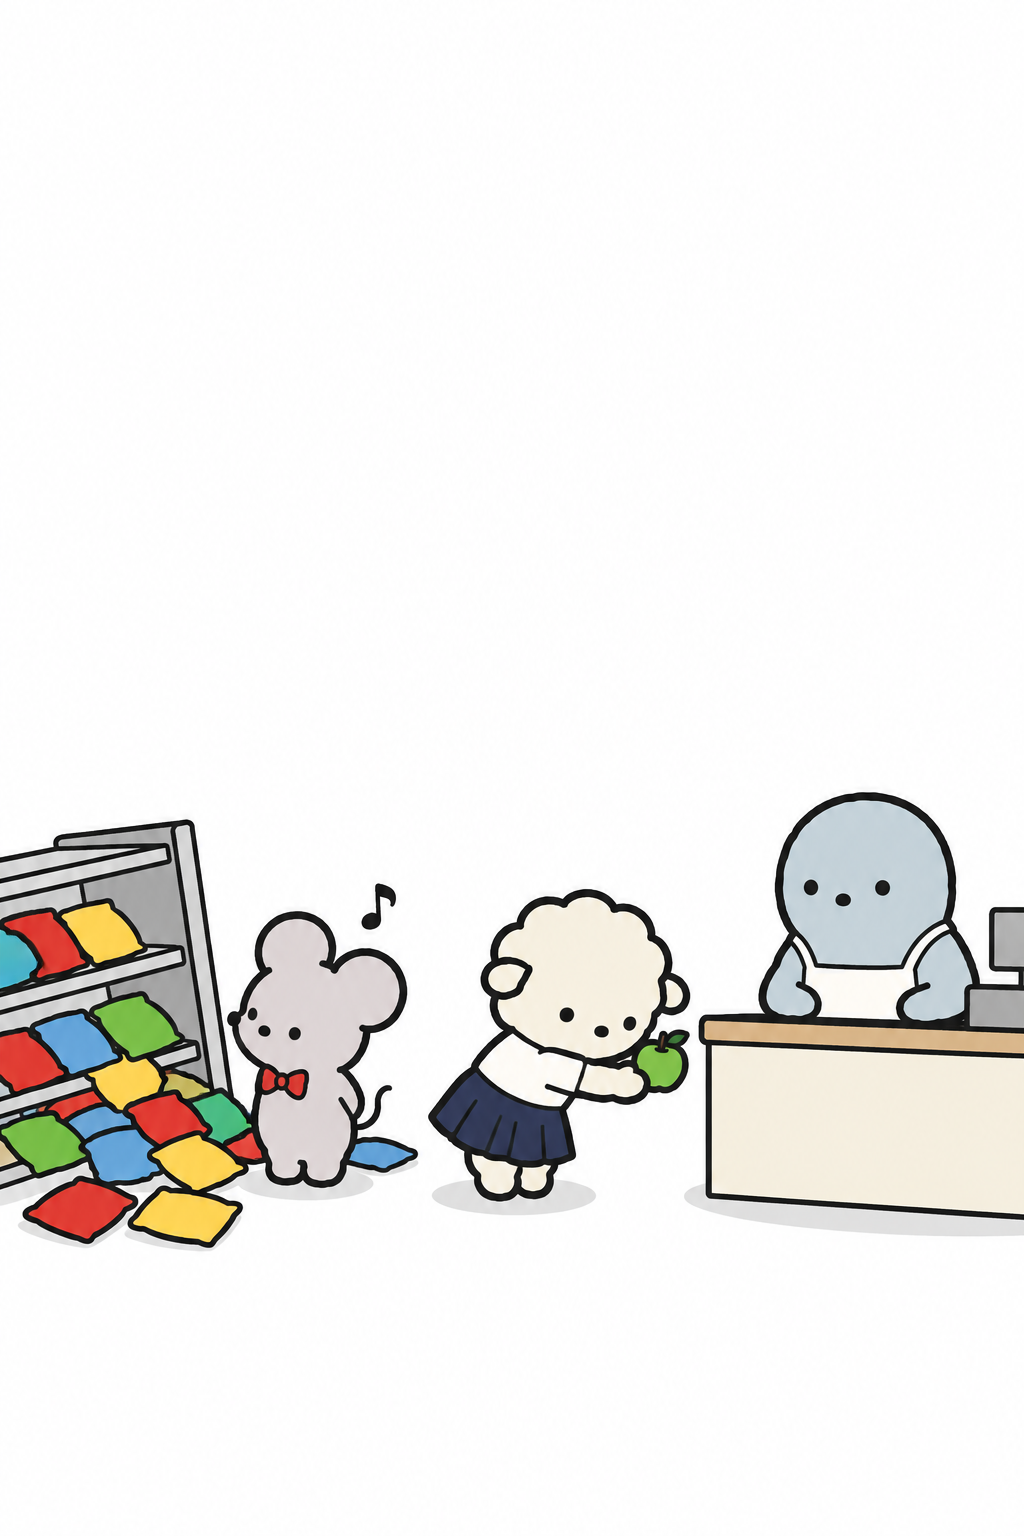
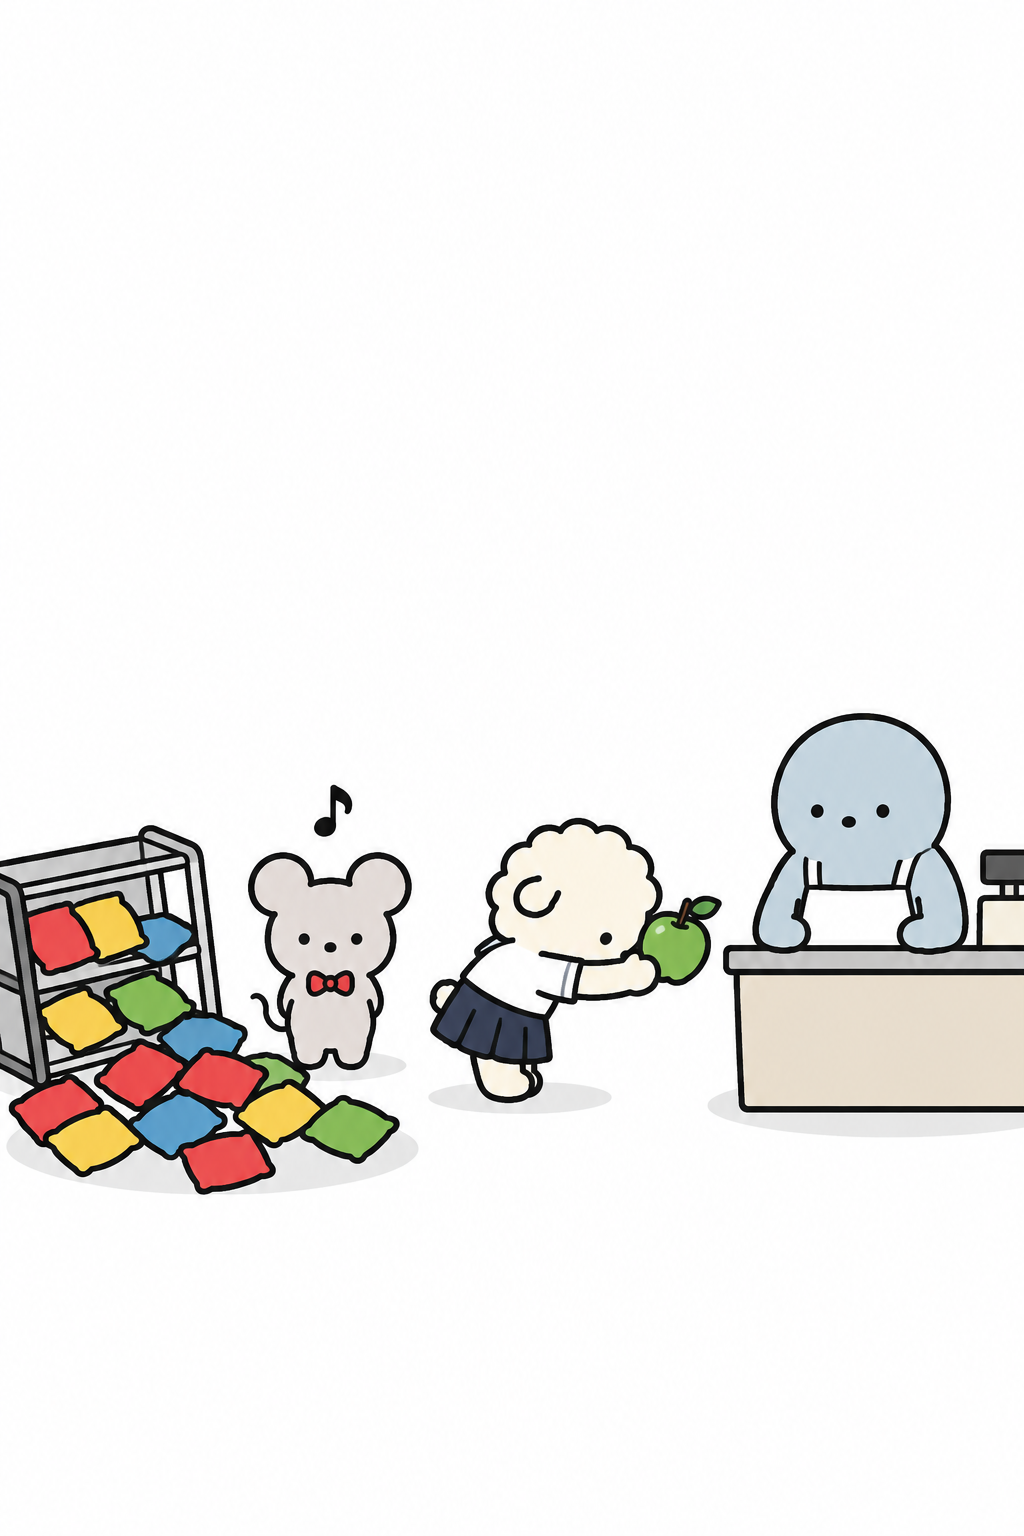
EP.05 컷3 재생성: 콩 코 1개, 정면

Changed region(s): [[0.0, 0.4375, 1.0, 0.8125]]

diff --git a/episodes/ep05/compose.html b/episodes/ep05/compose.html
@@ -53,8 +53,8 @@
   <div class="narr">어릴 때부터 동생이 사고를 치면
 동생 몫까지 대신 사과해 왔다.</div>
   <div class="label" style="top:290px">- 10년 전 -</div>
-  <div class="mind" style="left:230px;top:665px;width:240px;text-align:center">누나 최고</div>
-  <div class="mind" style="left:470px;top:600px;width:420px;text-align:center">저희가 다 치울게요!</div>
+  <div class="mind" style="left:230px;top:600px;width:240px;text-align:center">누나 최고</div>
+  <div class="mind" style="left:470px;top:540px;width:420px;text-align:center">저희가 다 치울게요!</div>
 </section>
 
 <section id="s4" class="dim">

diff --git a/episodes/ep05/build_prompts.py b/episodes/ep05/build_prompts.py
@@ -66,7 +66,7 @@ cuts['cut2'] = head(DUBU, TANGJA, APPLE) + (
 cuts['cut3'] = head(DUBU, KONG_KID, CLERK, APPLE) + (
     "Scene: inside a convenience store, years ago. Background stays plain white; only a simple flat counter on the RIGHT with the Clerk standing behind it, blank stare, flippers on the counter. "
     "On the LEFT, a metal snack shelf has toppled over sideways and a big pile of colorful snack bags (flat rectangles and pillows in red, yellow, blue, green, no letters) is spilled across the floor. "
-    "Little Kong (a small child, about 70% of Dubu's height, red bow tie) stands next to the pile with both hands behind his back, head turned away pretending nothing happened, one small black music note floating above his head. "
+    "Little Kong (a small child, about 70% of Dubu's height, red bow tie) stands next to the pile in FRONT VIEW with both hands behind his back, pretending nothing happened: his round face has EXACTLY three small black dots — two eyes and one nose in the middle below them — and nothing else (no snout, no extra dot, no mouth); one small black music note floats above his head. "
     "Dubu, wearing a Korean high-school girl uniform (white short-sleeve shirt and a navy #2E3A59 pleated skirt), stands in the middle bending forward in a deep 90-degree bow toward the Clerk, holding THE APPLE out with both hands. "
     "Bright, warm colors. " + LAYOUT) + END
 
